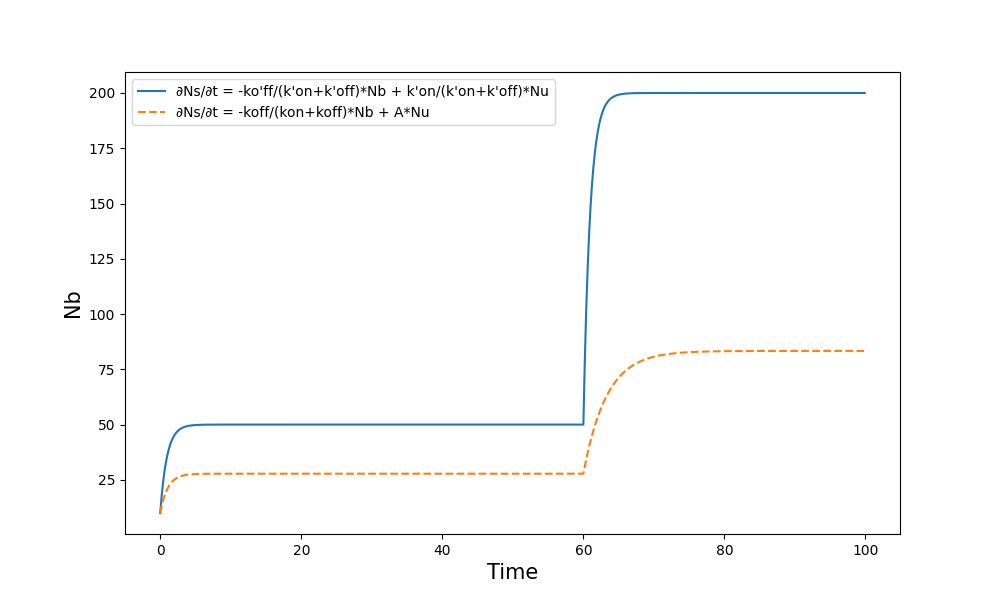
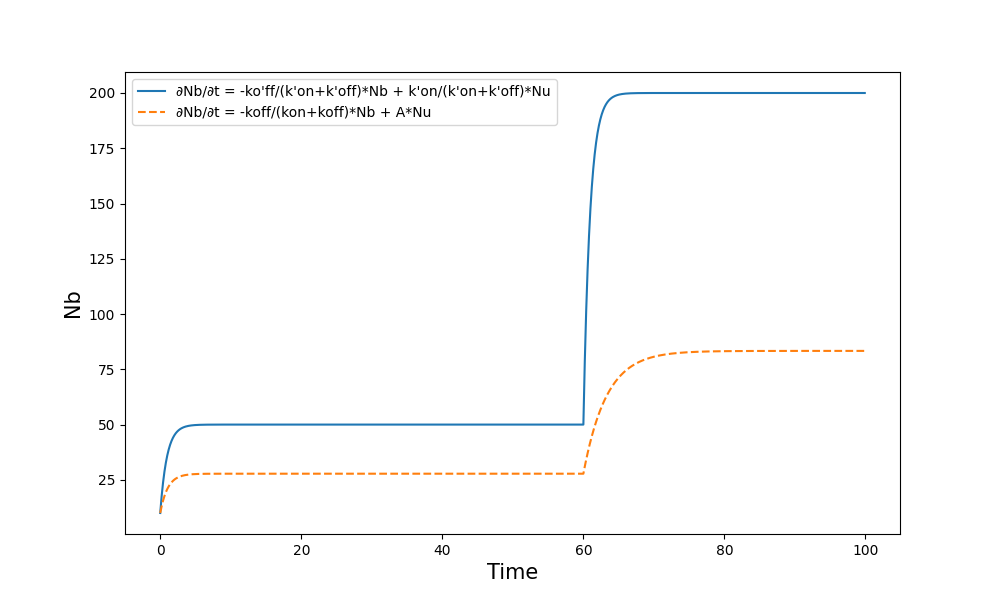
202401072

Changed region(s): [[0.186, 0.12, 0.558, 0.21]]

diff --git a/thory_2model_change.py b/thory_2model_change.py
@@ -13,8 +13,8 @@ dt = 0.1
 t_values = np.arange(t_start, t_end, dt)
 
 # 初期 (kon, koff) と変更後の (kon, koff) の組み合わせ
-initial_kon_koff = (0.2, 0.8)
-changed_kon_koff = (0.8, 0.2)
+initial_kon_koff = (0.8, 0.2)
+changed_kon_koff = (0.2, 0.8)
 
 # プロット
 plt.figure(figsize=(10, 6))
@@ -41,8 +41,8 @@ for i, t in enumerate(t_values[:-1]):
    # if t == 60:
    #     plt.axvline(x=t, color='red', linestyle='--', label='kon, koff change')
 
-plt.plot(t_values, Ns_values1, label="∂Ns/∂t = -ko'ff/(k'on+k'off)*Nb + k'on/(k'on+k'off)*Nu")
-plt.plot(t_values, Ns_values2, label='∂Ns/∂t = -koff/(kon+koff)*Nb + A*Nu', linestyle='--')
+plt.plot(t_values, Ns_values1, label="∂Nb/∂t = -ko'ff/(k'on+k'off)*Nb + k'on/(k'on+k'off)*Nu")
+plt.plot(t_values, Ns_values2, label='∂Nb/∂t = -koff/(kon+koff)*Nb + A*Nu', linestyle='--')
 
 plt.xlabel('Time',fontsize=15)
 plt.ylabel('Nb',fontsize=15)
@@ -51,7 +51,7 @@ plt.legend()
 #plt.grid(True)
 
 # グラフを保存
-plt.savefig('2model_hikaku_seisei_a0.1_syokiKon08Koff02.png')
+plt.savefig('2model_hikaku_houkai_a0.1_syokiKon08Koff02.png')
 
 plt.show()
 
